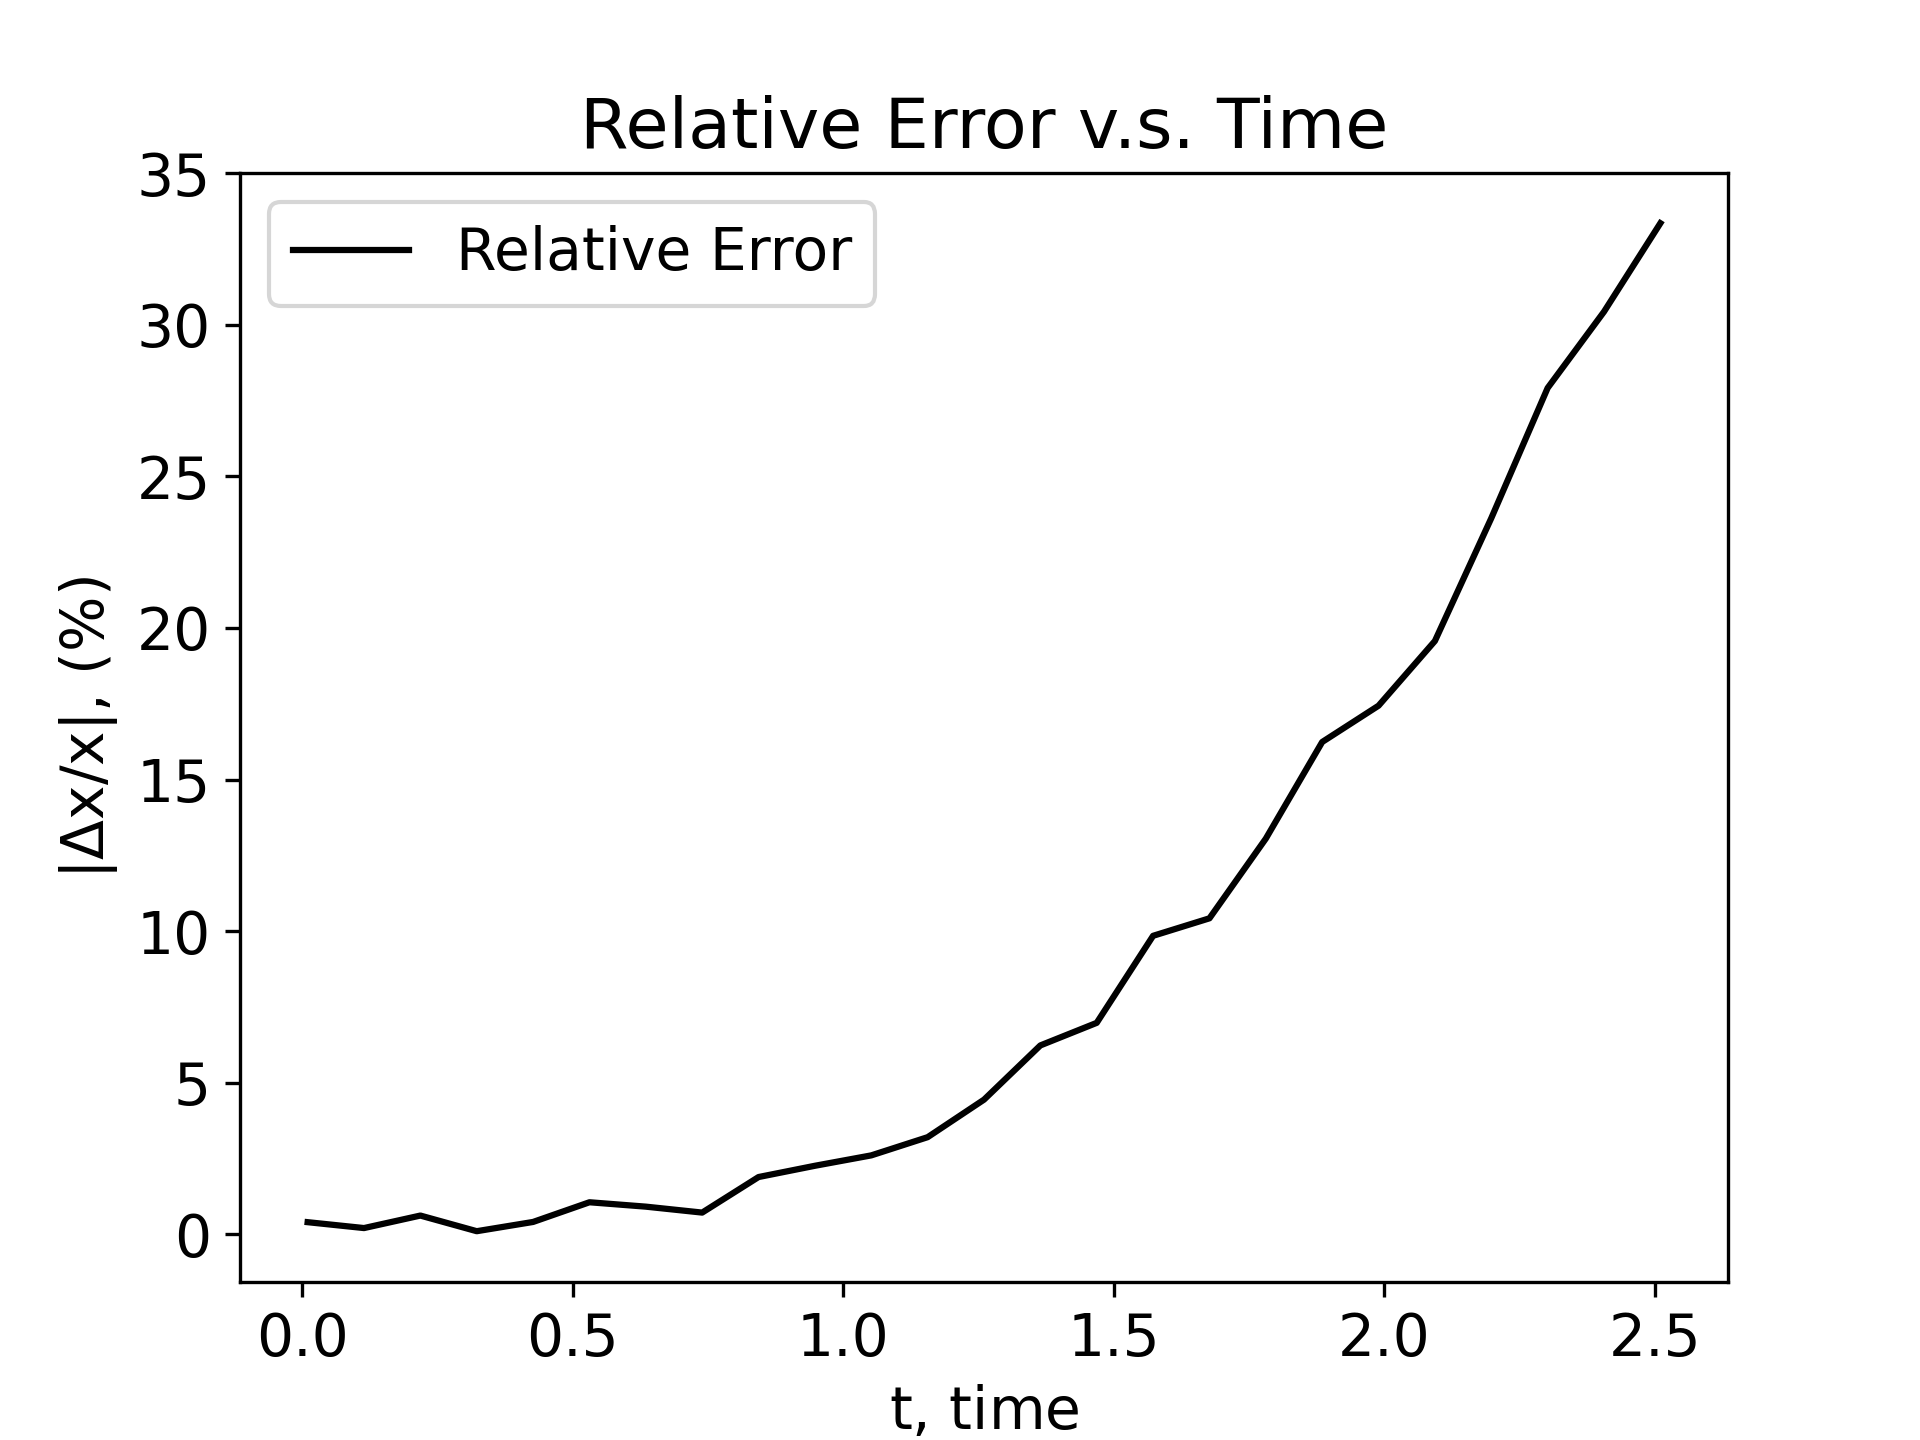
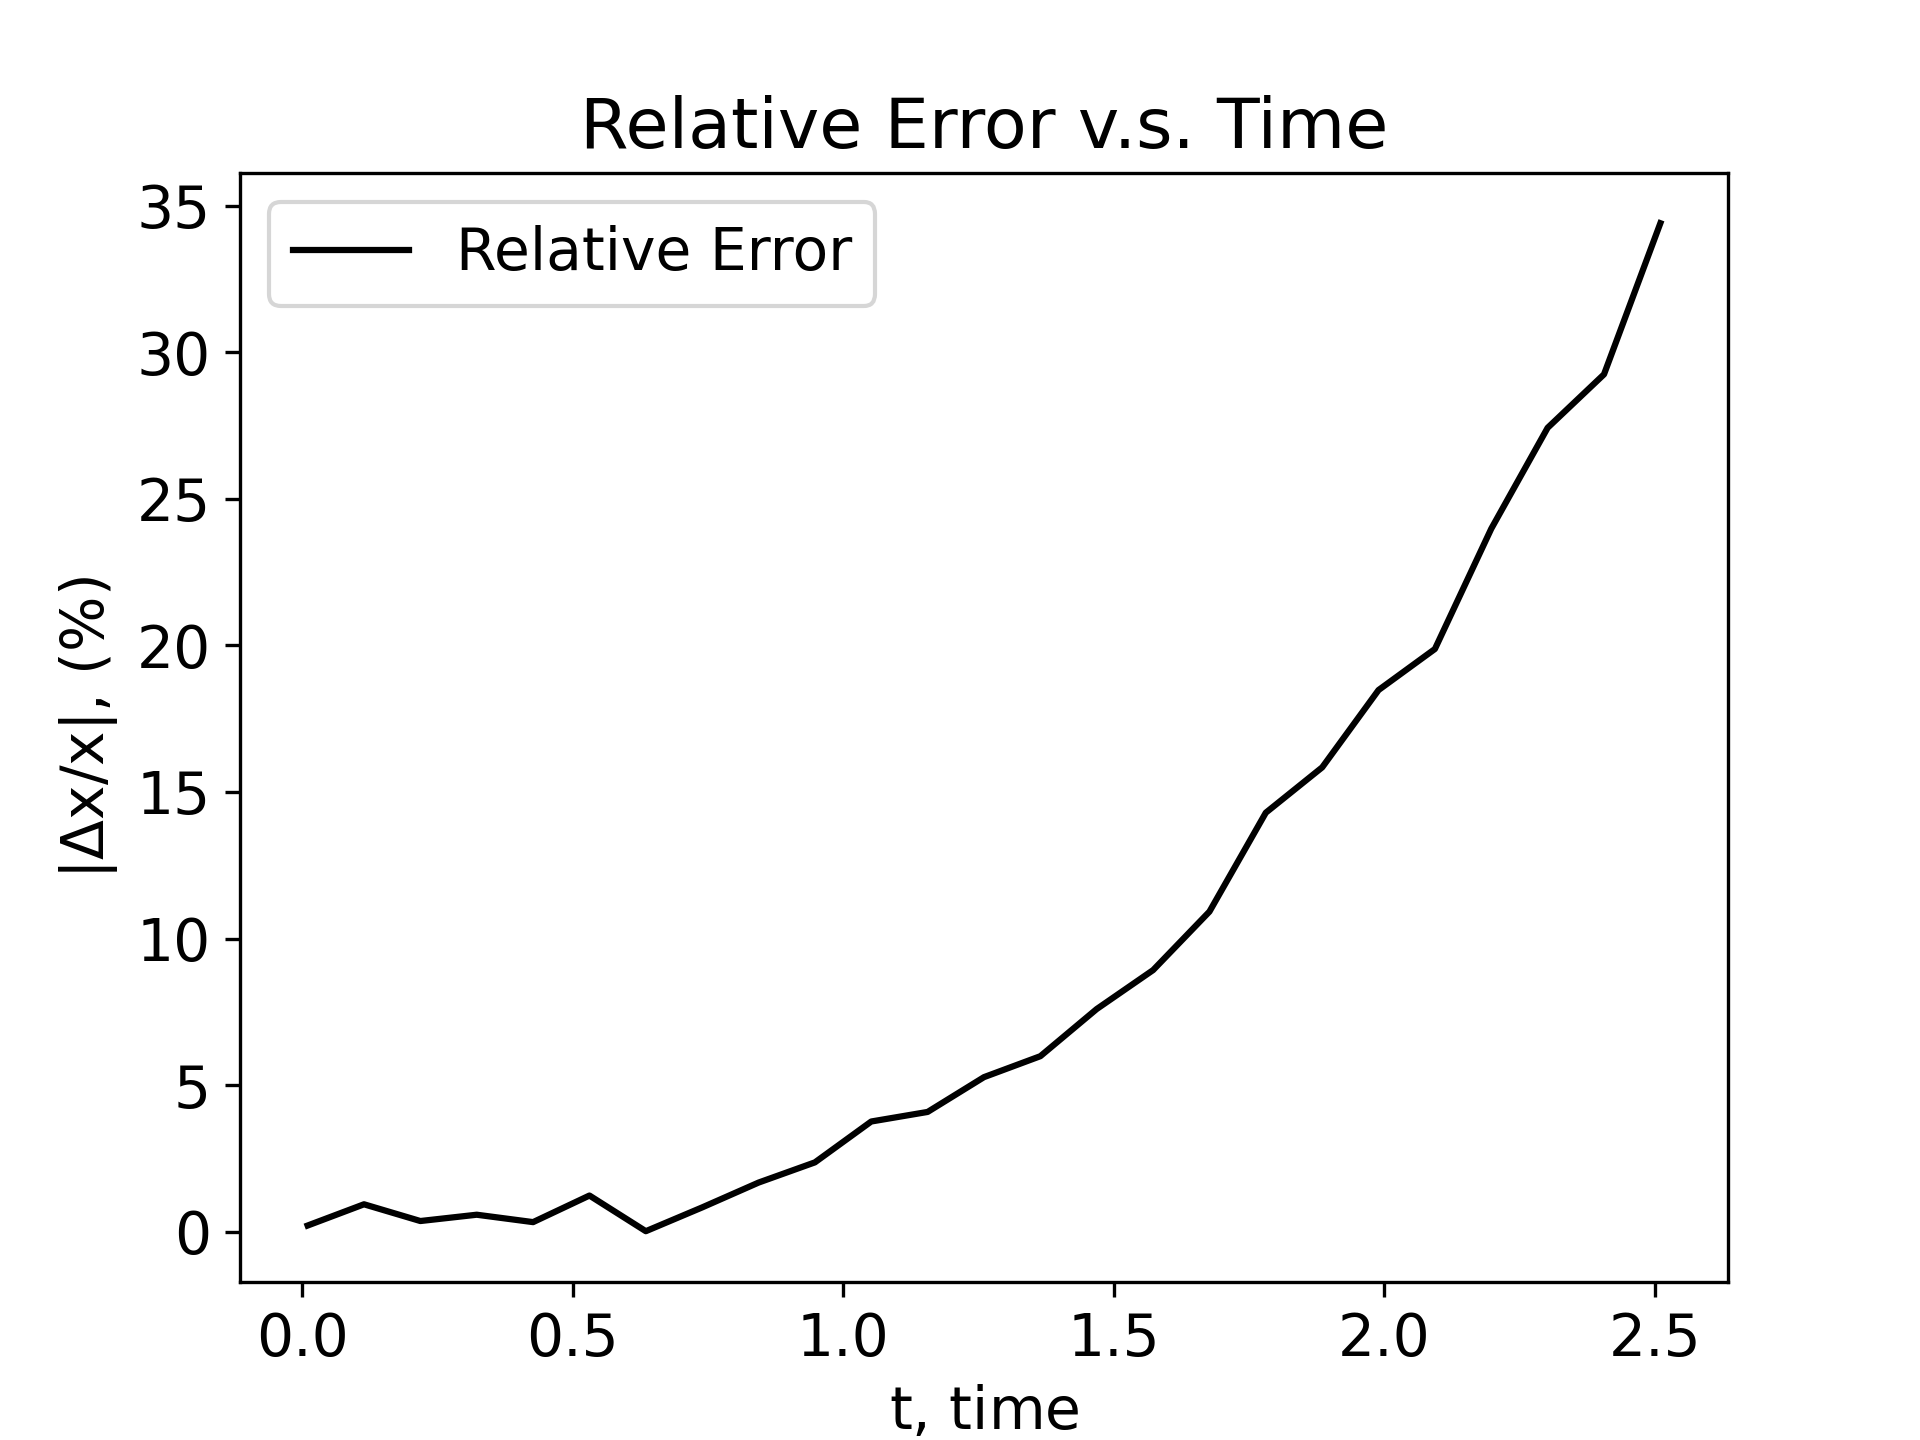
Added comments

diff --git a/src/quantum_circuit.py b/src/quantum_circuit.py
@@ -12,36 +12,46 @@ from qiskit.quantum_info.operators import Operator
 
 
 class LDESolver:
+    '''
+    Class that is responsible for the creation of the LDE Solver Circuit based on the paper,
+
+    T. Xin et al., “Quantum algorithm for solving linear differential equations: Theory and experiment,”
+    Physical Review A, vol. 101, no. 3, Mar. 2020, doi: 10.1103/physreva.101.032307.
+    '''
+
     def __init__(self, num_of_anc_reg1, num_of_anc_reg2, num_of_work_qubits, t):
+
         self.shots = 10000
 
         self.load_account()
 
         self.create_circuit(num_of_anc_reg1, num_of_anc_reg2, num_of_work_qubits)
 
+        # Creates the V and W unitaries
         self.create_VS_WS(t)
         self.create_V()
 
+        # Encoding Section
         self.encode()
 
+        # Entanglement Section
         self.entanglement()
 
+        # Decoding Section
         self.decode()
 
         self.measure()
 
         self.execute()
 
-        # self.draw_circuit()
         self.display_results()
 
     def execute(self):
+        '''
+        Executes the created quantum circuit on the IBMQ Qasm Simulator
+        '''
         self.num_of_qubits = self.circuit.num_qubits
-        # self.backend = least_busy(
-        #     self.provider.backends(filters=lambda x: x.configuration().n_qubits >= self.num_of_qubits
-        #                                              and not x.configuration().simulator
-        #                                              and x.status().operational == True)
-        # )
+
         self.backend = Aer.get_backend('qasm_simulator')
         job = execute(
             transpile(self.circuit, backend=self.backend),
@@ -52,107 +62,107 @@ class LDESolver:
         self.result = job.result()
 
     def draw_circuit(self):
-        """"""
+        '''
+        Draws the quantum circuit and saves it to the results folder.
+        '''
+
         self.circuit.draw('mpl', style={'name': 'bw', 'dpi': 350}, filename="./results/circuit.png")
         plt.show()
 
     def display_results(self):
+        '''
+        Computes results as a class variable to be processed in main.
+        '''
+
         counts = self.result.get_counts()
-        # print(self.N2)
         probs = {string: count / self.shots for string, count in counts.items()}
-        print(probs, self.N)
-        # self.x = min(probs['100000'], probs['000001'])
+
         y_adj, x_adj = 0, 0
         if '0001' in probs.keys():
             y_adj = probs['0001']
         if '1001' in probs.keys():
             x_adj = probs['1001']
+
         self.y = (self.N ** 2) * np.sqrt(probs['1000'] + y_adj)
         self.x = (self.N ** 2) * np.sqrt(probs['0000'] + x_adj)
-        # self.x = probs['00001']
-        # self.y = min(probs['000000'], probs['100001'])
-        # plot_histogram(self.result.get_counts(), title="LDE Solver", color='black')
-        # plt.show()
 
     def measure(self):
-        # self.circuit.measure(self.work_qubit_reg, self.classical_reg)
+        '''
+        Measures the quantum circuit over all qubits.
+        '''
+
         self.circuit.measure_all()
 
     def entanglement(self):
-        order = 2
-        for i in range(2 ** order):
-            # print(self.circuit)
+        '''
+        Calculates the entanglement operator for a given order.
+        '''
+
+        order = 3
+        num_of_ancilla = int(np.log2(order + 1))
+        for i in range(2 ** num_of_ancilla):
             if i % 2 != 0:
-                ctrl = "".join(bin(i)[2:][::-1].ljust(order, '0'))
+                ctrl = "".join(bin(i)[2:][::-1].ljust(num_of_ancilla, '0'))
                 self.circuit.append(
-                    XGate().control(num_ctrl_qubits=order, ctrl_state=ctrl),
+                    XGate().control(num_ctrl_qubits=num_of_ancilla, ctrl_state=ctrl),
                     [self.anc_reg2[0], self.anc_reg2[1], self.work_qubit_reg[-1]]
                 )
-        # self.circuit.append(
-        #     XGate().control(num_ctrl_qubits=3, ctrl_state=3),
-        #     [self.anc_reg2[0], self.anc_reg2[1], self.anc_reg2[2], self.work_qubit_reg[-1]]
-        # )
-        # self.circuit.append(
-        #     XGate().control(num_ctrl_qubits=3, ctrl_state=5),
-        #     [self.anc_reg2[0], self.anc_reg2[1], self.anc_reg2[2], self.work_qubit_reg[-1]]
-        # )
-        # self.circuit.append(
-        #     XGate().control(num_ctrl_qubits=3, ctrl_state=7),
-        #     [self.anc_reg2[0], self.anc_reg2[1], self.anc_reg2[2], self.work_qubit_reg[-1]]
-        # )
-
-    # self.circuit.cx(self.anc_reg2, self.work_qubit_reg, ctrl_state='1')
-    # self.circuit.cx(self.anc_reg2, self.work_qubit_reg, ctrl_state='1')
 
     def encode(self):
+        '''
+        Encoding part of the quantum circuit.
+        '''
+
+        # Create a seperate circuit to turn into VS1 gate
         S1_circuit = QuantumCircuit(3)
-        # Ux Ub
+
+        # Ux
         S1_circuit.h(2)
-        # Vs1 Vs2
+
+        # Vs1
         S1_circuit.unitary(self.v_S1_U, [0, 1], label='VS1')
         S1_gate = S1_circuit.to_gate().control(1, ctrl_state='0')
 
+        # Create a seperate circuit to turn into VS1 gate
         S2_circuit = QuantumCircuit(3)
-        # S2_circuit.x(4)
+
+        # Ub
         S2_circuit.h(2)
+
+        # Vs2
         S2_circuit.unitary(self.v_S2_U, [0, 1], label='VS2')
         S2_gate = S2_circuit.to_gate().control(1, ctrl_state='1')
-        # print(S2_circuit)
 
+        # Attach encoding part of circuit.
         self.circuit.unitary(self.V_U, 0, label='V')
         self.circuit.append(S1_gate, [0, 1, 2, 3])
         self.circuit.append(S2_gate, [0, 1, 2, 3])
 
     def decode(self):
+        '''
+        Decoding part of the quantum circuit.
+        '''
 
+        # WS1
         S1_circuit = QuantumCircuit(3)
-        # Vs1 Vs2
         S1_circuit.unitary(self.w_S1_U, [0, 1], label='WS1')
         S1_gate = S1_circuit.to_gate().control(1, ctrl_state='0')
 
-        # print(S1_circuit)
+        # WS2
         S2_circuit = QuantumCircuit(3)
         S2_circuit.unitary(self.w_S2_U, [0, 1], label='WS2')
         S2_gate = S2_circuit.to_gate().control(1, ctrl_state='1')
-        # print(S2_circuit)
+
+        # Append decoding part onto circuit.
         self.circuit.append(S1_gate, [0, 1, 2, 3])
         self.circuit.append(S2_gate, [0, 1, 2, 3])
         self.circuit.unitary(self.W_U, 0, label='W')
 
-        # S1_circuit = QuantumCircuit(3)
-        # # Ws1
-        # S1_circuit.unitary(self.w_S1_U, [0, 1, 2], label='WS1')
-        # S1_gate = S1_circuit.to_gate().control(1, ctrl_state='0')
-        # # Ws2
-        # S2_circuit = QuantumCircuit(3)
-        # S2_circuit.unitary(self.w_S2_U, [0, 1, 2], label='WS2')
-        # S2_gate = S2_circuit.to_gate().control(1, ctrl_state='1')
-        #
-        # self.circuit.append(S1_gate, [0, 1, 2, 3])
-        # self.circuit.append(S2_gate, [0, 1, 2, 3])
-        # self.circuit.unitary(self.W_U, 0, label='W')
-
     def create_V(self):
+        '''
+        Creates the V and W operators
+        '''
+
         self.N = np.sqrt(self.C ** 2 + self.D ** 2)
         V = (1 / self.N) * np.array([[self.C, self.D], [self.D, -self.C]])
 
@@ -160,20 +170,21 @@ class LDESolver:
         self.W_U = self.V_U.transpose()
 
     def create_VS_WS(self, t):
-
-        order = 0  # Doesn't matter
+        '''
+        Creates the V and W matrices using Gram-Schmidt method.
+        '''
 
         v_S1 = np.array(
-            [[np.sqrt(self.e(t, 0, order, noSum=True, index=0)),
-              np.sqrt(self.e(t, 1, order, noSum=True, index=1)),
-              np.sqrt(self.e(t, 2, order, noSum=True, index=2)),
-              np.sqrt(self.e(t, 3, order, noSum=True, index=3))]]
+            [[np.sqrt(self.e(t, 0)),
+              np.sqrt(self.e(t, 1)),
+              np.sqrt(self.e(t, 2)),
+              np.sqrt(self.e(t, 3))]]
         )
 
         v_S2 = np.array(
-            [[np.sqrt(self.e(t, 1, order, noSum=True, index=1)),
-              np.sqrt(self.e(t, 2, order, noSum=True, index=2)),
-              np.sqrt(self.e(t, 3, order, noSum=True, index=3)),
+            [[np.sqrt(self.e(t, 1)),
+              np.sqrt(self.e(t, 2)),
+              np.sqrt(self.e(t, 3)),
               0]]
         )
 
@@ -188,18 +199,18 @@ class LDESolver:
 
         self.w_S1_U, self.w_S2_U = self.v_S1_U.transpose(), self.v_S2_U.transpose()
 
-    def e(self, t, start, order, noSum=False, index=None):
-        if not noSum:
-            sum = 0
-            for i in range(start, order):
-                sum += (t ** i) / (math.factorial(i))
-
-            return sum
-        elif noSum:
-            return (t ** index) / (math.factorial(index))
+    def e(self, t, index):
+        '''
+        Term in the Taylor Expansion of exp(x) used in W and V matrices.
+        '''
+        return (t ** index) / (math.factorial(index))
 
     def create_unitary(self, v):
-        # From https://math.stackexchange.com/questions/4160055/create-a-unitary-matrix-out-of-a-column-vector
+        '''
+        Function that calculates the unitary matrix for a given vector in the first column. This function is from,
+        https://math.stackexchange.com/questions/4160055/create-a-unitary-matrix-out-of-a-column-vector
+        '''
+
         dim = v.size
         # Return identity if v is a multiple of e1
         if v[0][0] and not np.any(v[0][1:]):
@@ -210,10 +221,17 @@ class LDESolver:
         return np.identity(dim) - 2 * ((np.dot(w.T, w)) / (np.dot(w, w.T)))
 
     def load_account(self):
+        '''
+        Loads my IBMQ account.
+        '''
         IBMQ.load_account()
         self.provider = IBMQ.get_provider(hub='strangeworks-hub', group="science-team", project="science-test")
 
     def create_circuit(self, num_of_anc_reg1, num_of_anc_reg2, num_of_work_qubits):
+        '''
+        Define and set-up quantum circuit.
+        '''
+
         self.circuit = QuantumCircuit(name='LDE_Solver_Circuit')
 
         self.anc_reg1 = QuantumRegister(num_of_anc_reg1, name='anc1')
@@ -222,7 +240,4 @@ class LDESolver:
 
         self.work_qubit_reg = QuantumRegister(num_of_work_qubits, name='work')
 
-        # self.classical_reg = ClassicalRegister(num_of_work_qubits, name='result')
-
-        # self.circuit.add_register(self.anc_reg1, self.anc_reg2, self.work_qubit_reg, self.classical_reg)
         self.circuit.add_register(self.anc_reg1, self.anc_reg2, self.work_qubit_reg)

diff --git a/main.py b/main.py
@@ -1,35 +1,49 @@
-from tqdm import tqdm
-
 from src.analytical_soln import *
 from src.quantum_circuit import *
 
 if __name__ == '__main__':
-    t = np.linspace(0.01, 2.51, 25)
-    # for t_ in t:
+
+    # Define t space over which to solve DE
+    t_arr = np.linspace(0.01, 2.51, 25)
+
+    # Define circuit parameters
     num_of_anc_reg1, num_of_anc_reg2, num_of_work_qubits = 1, 2, 1
 
+    # Define analytical solution parameters
     p0, b = (1 / (np.sqrt(2))) * np.array([1, 1]), (1 / (np.sqrt(2))) * np.array([1, 1])
+    M = np.array([[0, 1], [1, 0]])
 
+    # Define arrays to store information
     x_C, y_C = [], []
     x_Q, y_Q = [], []
-    for i in tqdm(range(len(t))):
-        circuit = LDESolver(num_of_anc_reg1, num_of_anc_reg2, num_of_work_qubits, t[i])
-        x_analytic, y_analytic = solve_p(t[i], p0, b)
-        print("Analytic:", x_analytic, y_analytic)
-        print("Predicted:", circuit.x, circuit.y)
+
+    for t in t_arr:
+        # Create circuit
+        circuit = LDESolver(num_of_anc_reg1, num_of_anc_reg2, num_of_work_qubits, t)
+
+        # Solve analytic expression
+        x_analytic, y_analytic = solve_p(t, M, p0, b)
+
+        print(f"Analytic x({round(t, 3)}) = {round(x_analytic, 3)}")
+        print(f"Analytic y({round(t, 3)}) = {round(y_analytic, 3)}")
+        print(f"Quantum x({round(t, 3)}) = {round(circuit.x, 3)}")
+        print(f"Quantum y({round(t, 3)}) = {round(circuit.y, 3)}")
+
+        # Store results
         x_C.append(x_analytic)
         y_C.append(y_analytic)
-
         x_Q.append(circuit.x)
         y_Q.append(circuit.y)
 
+    # Draw circuit for user
     circuit.draw_circuit()
 
-    plt.plot(t, x_C, 'r--', label='x(t) Analytic')
-    plt.plot(t, x_Q, 'r', label='x(t) Quantum')
+    # Plot results
+    plt.plot(t_arr, x_C, 'r--', label='x(t) Analytic')
+    plt.plot(t_arr, x_Q, 'r', label='x(t) Quantum')
 
-    plt.plot(t, y_C, 'b--', label='y(t) Analytic')
-    plt.plot(t, y_Q, 'b', label='y(t) Quantum')
+    plt.plot(t_arr, y_C, 'b--', label='y(t) Analytic')
+    plt.plot(t_arr, y_Q, 'b', label='y(t) Quantum')
 
     plt.xlabel(r"$t$, time")
     plt.ylabel(r"$d$, distance")
@@ -52,7 +66,7 @@ if __name__ == '__main__':
 
     x_C = np.array(x_C)
     x_Q = np.array(x_Q)
-    plt.plot(t, np.abs((x_C - x_Q) / x_Q) * 100, 'k', label='Relative Error')
+    plt.plot(t_arr, np.abs((x_C - x_Q) / x_Q) * 100, 'k', label='Relative Error')
     plt.legend(loc='best')
     plt.xlabel(r"$t$, time")
     plt.ylabel(r"$|\Delta x / x|$, (%)")

diff --git a/src/analytical_soln.py b/src/analytical_soln.py
@@ -2,10 +2,10 @@ import numpy as np
 import scipy as sp
 
 
-def solve_p(t, p0, b):
-    sigma_x = np.array([[0, 1], [1, 0]])
-    I = np.array([[1, 0], [0, 1]])
-
-    p = np.matmul(sp.linalg.expm(sigma_x * t), p0) + np.matmul((sp.linalg.expm(sigma_x * t) - I), np.matmul(sigma_x, b))
-    # print(p.shape)
+def solve_p(t, M, p0, b):
+    '''
+    Finds the analytic solution for the matrix LDE: dp/dt = M * p0 + b.
+    '''
+    p = np.matmul(sp.linalg.expm(M * t), p0) + np.matmul((sp.linalg.expm(M * t) - np.identity(2)),
+                                                         np.matmul(np.linalg.inv(M), b))
     return p
